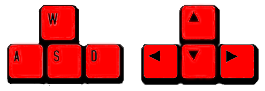
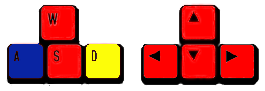
callback instead of timers and colors to keys

diff --git a/game.js b/game.js
@@ -1,11 +1,7 @@
 // Initialize Phaser
 var game = new Phaser.Game(400, 490, Phaser.AUTO, 'game_div');
 
-var waitTime = 25000;
-
 function startGame(settings, message, gameLength) {
-	game.gameOver = false;
-
 	game.rightShape;
 	game.flyingLevel = 0;
 	game.reactionLevel = 0;
@@ -34,19 +30,12 @@ var phases = [gaps, line, gapsAndLine, react, reactColors, reactShapes, reactSha
 var phases2 = [gaps, gapsAndLine, gapsLineAndReact, gapsLineAndReactColors, gapsLineAndReactShapes, gapsLineReactShapesAndColors, allFeatures];
 var phases3 = [testGame];
 
-game.gameOver = true;
 //nextPhase(0, phases);
 nextPhase(0,phases2);
 
 function nextPhase(index, phasesArray){
-	if(game.gameOver){
-		phasesArray[index]();
-		if(index + 1 < phasesArray.length){
-			setTimeout(nextPhase,waitTime,index+1,phasesArray);
-		}
-	} else {
-		setTimeout(nextPhase,1000, index,phasesArray);
-	}
+	phasesArray[index]();
+	game.callback = (function() {nextPhase(index+1,phasesArray)});
 }
 
 function gaps(){
@@ -80,31 +69,31 @@ function react(){
 function reactColors(){
 	var settings = {reactionsOn:true,colorReactionsOn:true};
 
-    startGame(settings,"Press A for blue, D for yellow",20);
+    startGame(settings,"Press A for blue. D for yellow",20);
 }
 
 function gapsLineAndReactColors(){
 	var settings = {blocksOn:true,lineOn:true,reactionsOn:true,colorReactionsOn:true};
 
-    startGame(settings,"Press A for blue, D for yellow",30);
+    startGame(settings,"Press A for blue. D for yellow",30);
 }
 
 function reactShapes(){
 	var settings = {reactionsOn:true,shapeReactionsOn:true};
 
-   	startGame(settings,"Press W for given shape. S for any other",20);
+   	startGame(settings,"",20);
 }
 
 function gapsLineAndReactShapes(){
 	var settings = {blocksOn:true,lineOn:true,reactionsOn:true,shapeReactionsOn:true};
 
-   	startGame(settings,"Press W for given shape. S for any other",30);
+   	startGame(settings,"",30);
 }
 
 function reactShapesAndColors(){
 	var settings = {reactionsOn:true,shapeReactionsOn:true,colorReactionsOn:true};
 
-    startGame(settings,"Now both color and shape",20);
+    startGame(settings,"Press A for blue, D for yellow",20);
 }
 
 function allFeatures(){
@@ -122,7 +111,7 @@ function testGame(){
 function gapsLineReactShapesAndColors(){
 	var settings = {blocksOn:true,lineOn:true,reactionsOn:true,shapeReactionsOn:true,colorReactionsOn:true};
 
-    startGame(settings,"React to both shape and color", 30);
+    startGame(settings,"Press A for blue, D for yellow", 30);
 }
 
 function tutorial(){

diff --git a/play.js b/play.js
@@ -113,7 +113,7 @@ var playState = {
             this.restartGame(); 
         }
         if(this.exists(this.realShape)){
-            this.realShape.x = this.bird.x - 12;
+            this.realShape.x = this.bird.x - 12 + this.shapeOffSet;
             this.realShape.y = this.bird.body.y - 25
         }
         if(this.leftKey.isDown){
@@ -375,7 +375,8 @@ var playState = {
     newShape: function() {
         this.colorName = this.randomItem(this.colors);
         this.text = this.randomItem(this.shapes);
-        this.realShape = this.game.add.sprite(this.bird.body.x, this.bird.body.y - 25,this.colorName + "-" + this.text);
+        this.shapeOffSet = (Math.floor(Math.random()*30)-15);
+        this.realShape = this.game.add.sprite(this.bird.body.x + this.shapeOffSet, this.bird.body.y - 25,this.colorName + "-" + this.text);
         this.shapeReactable = true;
         this.shapeTimer.delay = (600 + Math.random() * 500 + (900 - this.game.reactionLevel * 25))*1.75;
         this.game.time.events.add((900 - this.game.reactionLevel * 25)*2,this.shapeOff,this,this.realShape);
@@ -466,7 +467,6 @@ var playState = {
 
         this.running = false;
 
-        this.game.gameOver = true;
         this.game.state.start('end');
     }
 };

diff --git a/menu.js b/menu.js
@@ -18,15 +18,18 @@ var menuState = {
         }
 
         // Adding a text centered on the screen
-        var text = this.game.add.text(x, y-50, this.game.startingMessage, style);
+        var text = this.game.add.text(x, y-75, this.game.startingMessage, style);
         text.anchor.setTo(0.5, 0.5); 
 
         var shapes = ['Circle', 'Triangle', 'Pentagon'];
         this.game.rightShape = shapes[Math.floor(Math.random()*shapes.length)];
 
         if(this.game.settings.shapeReactionsOn){
-            var shapeText = this.game.add.text(x-133, y, "React to " + this.game.rightShape + "s", style);
+            var shapeText = this.game.add.text(x-133, y - 25, "Press W for " + this.game.rightShape + "s. " + "S for others.", style);
             text.anchor.setTo(0.5, 0.5); 
+            // if(this.game.settings.colorReactionsOn){
+            //     this.game.add.text(x-50, y + 25, "Yes, both.", style);
+            // }
         }
 
         this.game.add.sprite(75,300,this.determineKeyPicture());

diff --git a/end.js b/end.js
@@ -15,5 +15,8 @@ var endState = {
 
         var text = this.game.add.text(x, y-50, "Good job!", style);
         text.anchor.setTo(0.5, 0.5); 
+        if(this.game.callback){
+            setTimeout(this.game.callback,2000);
+        }
     }
 };
